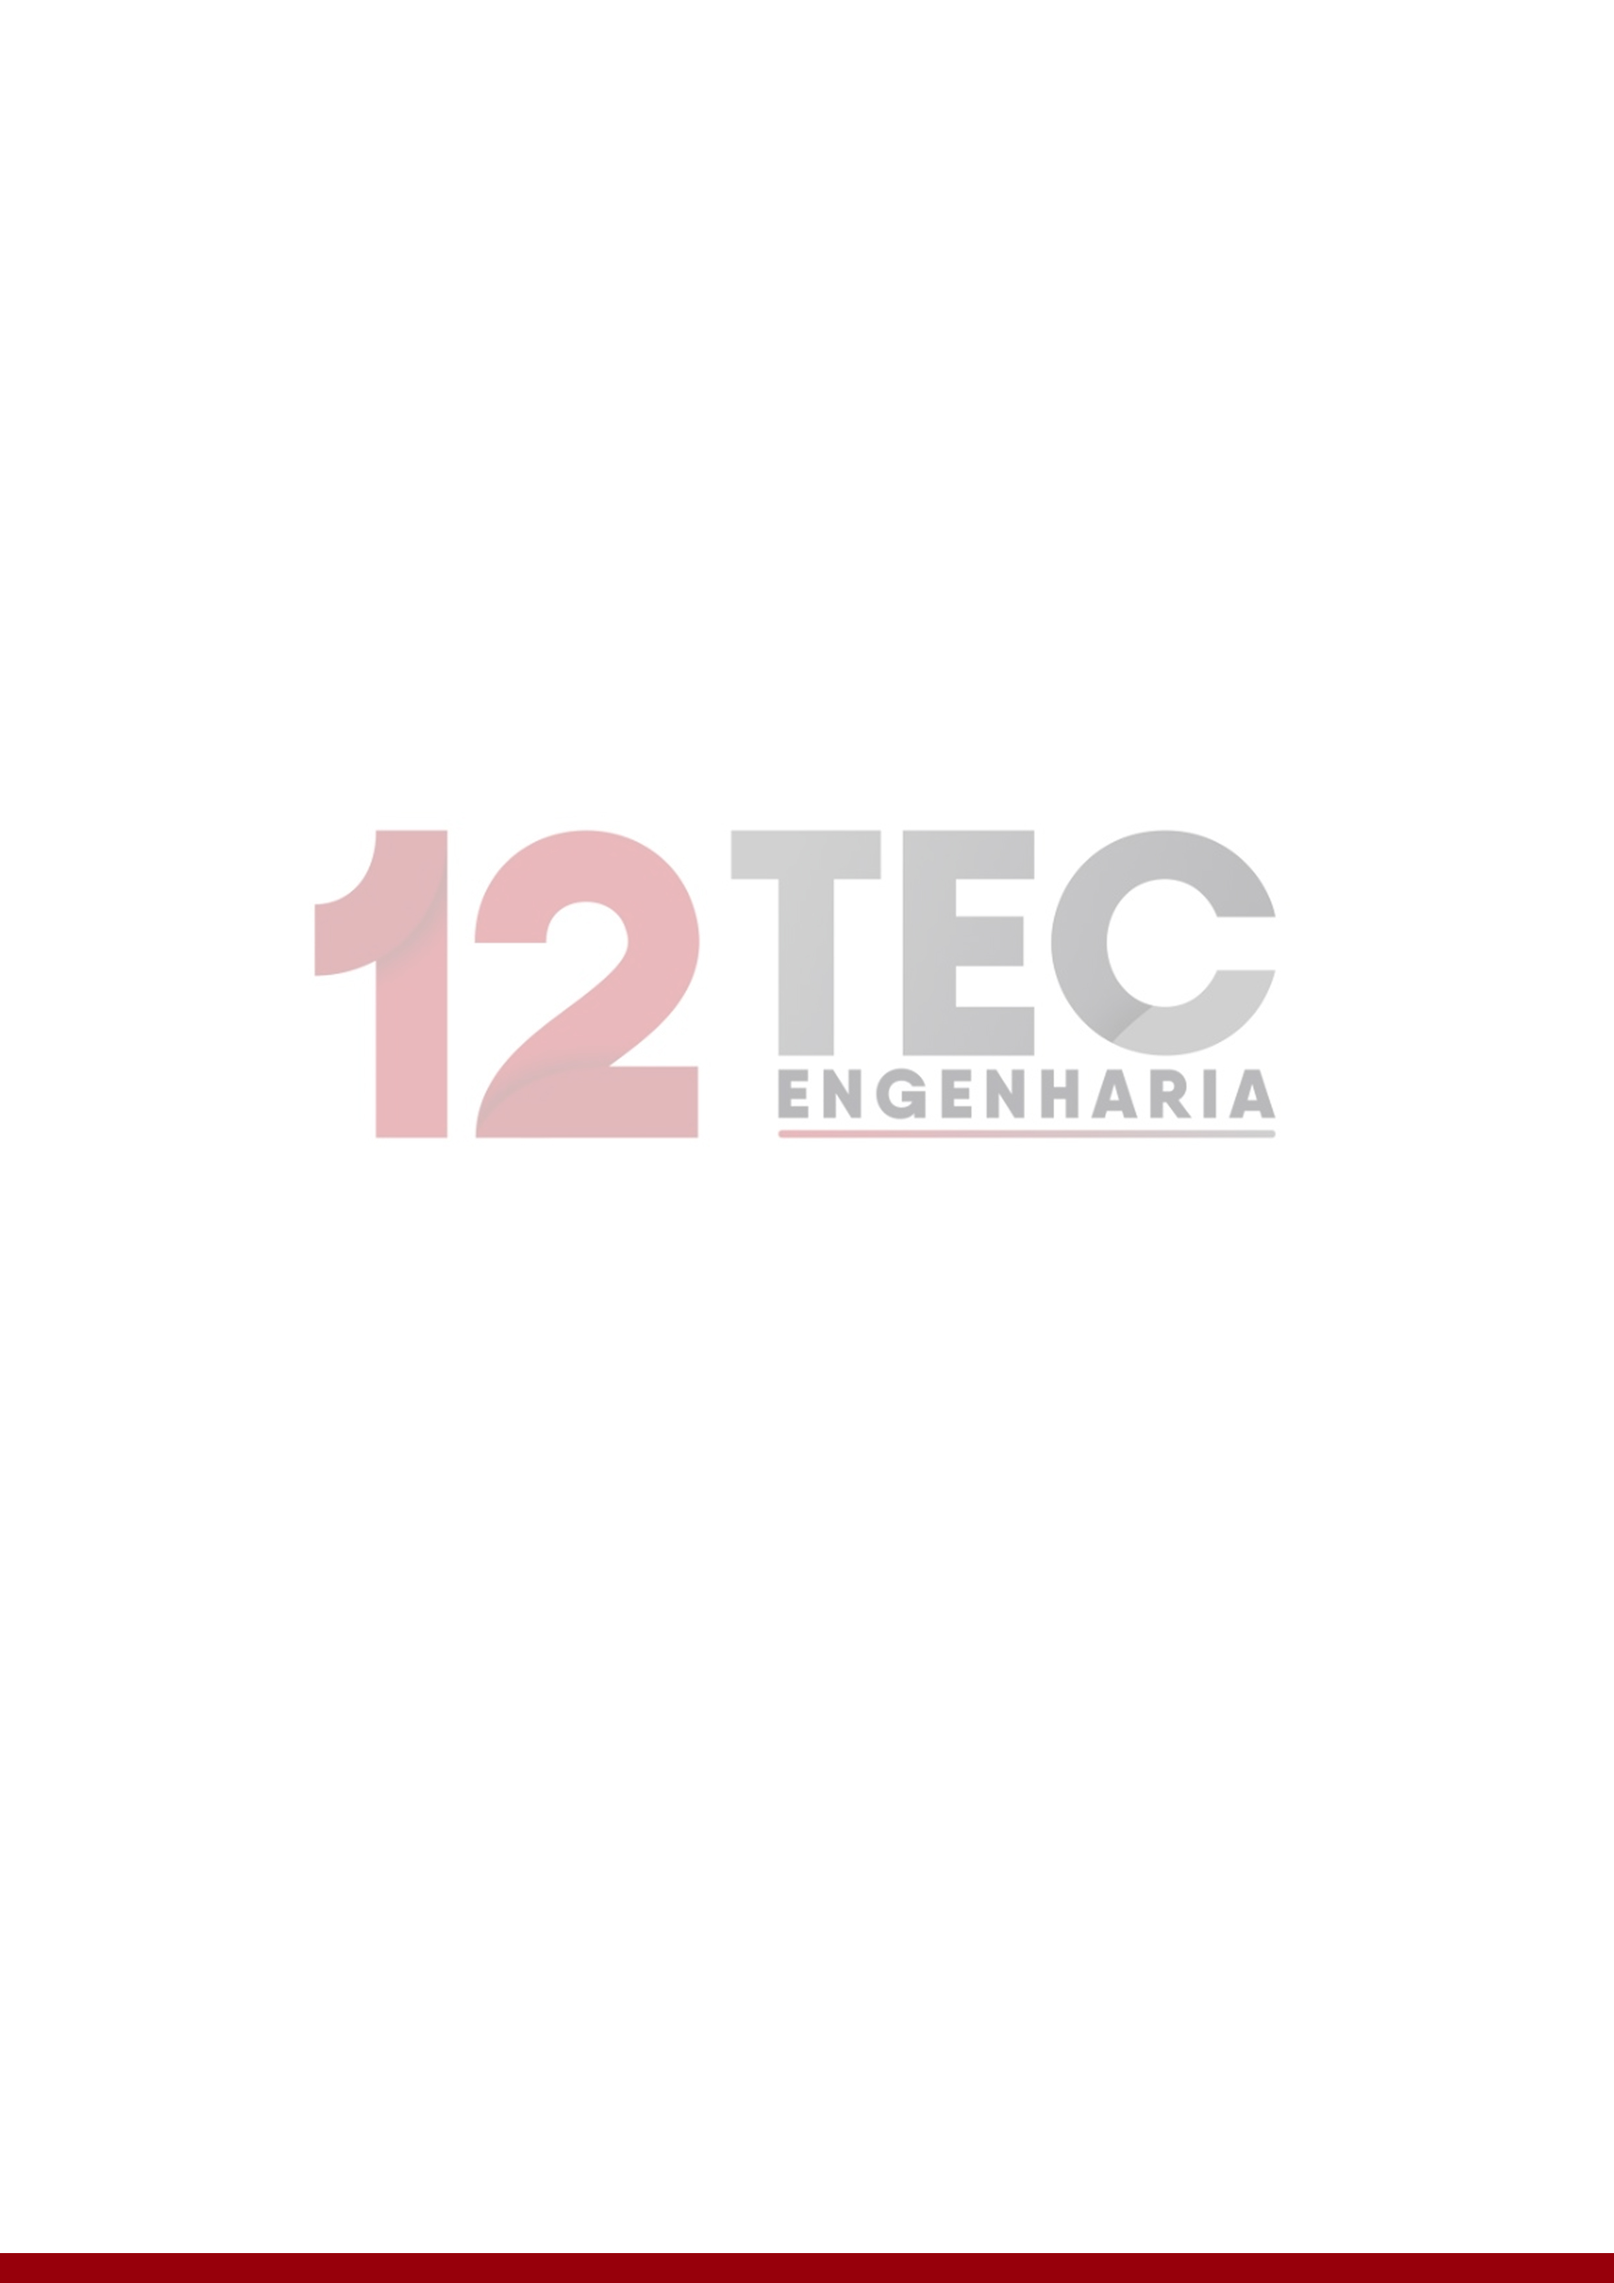
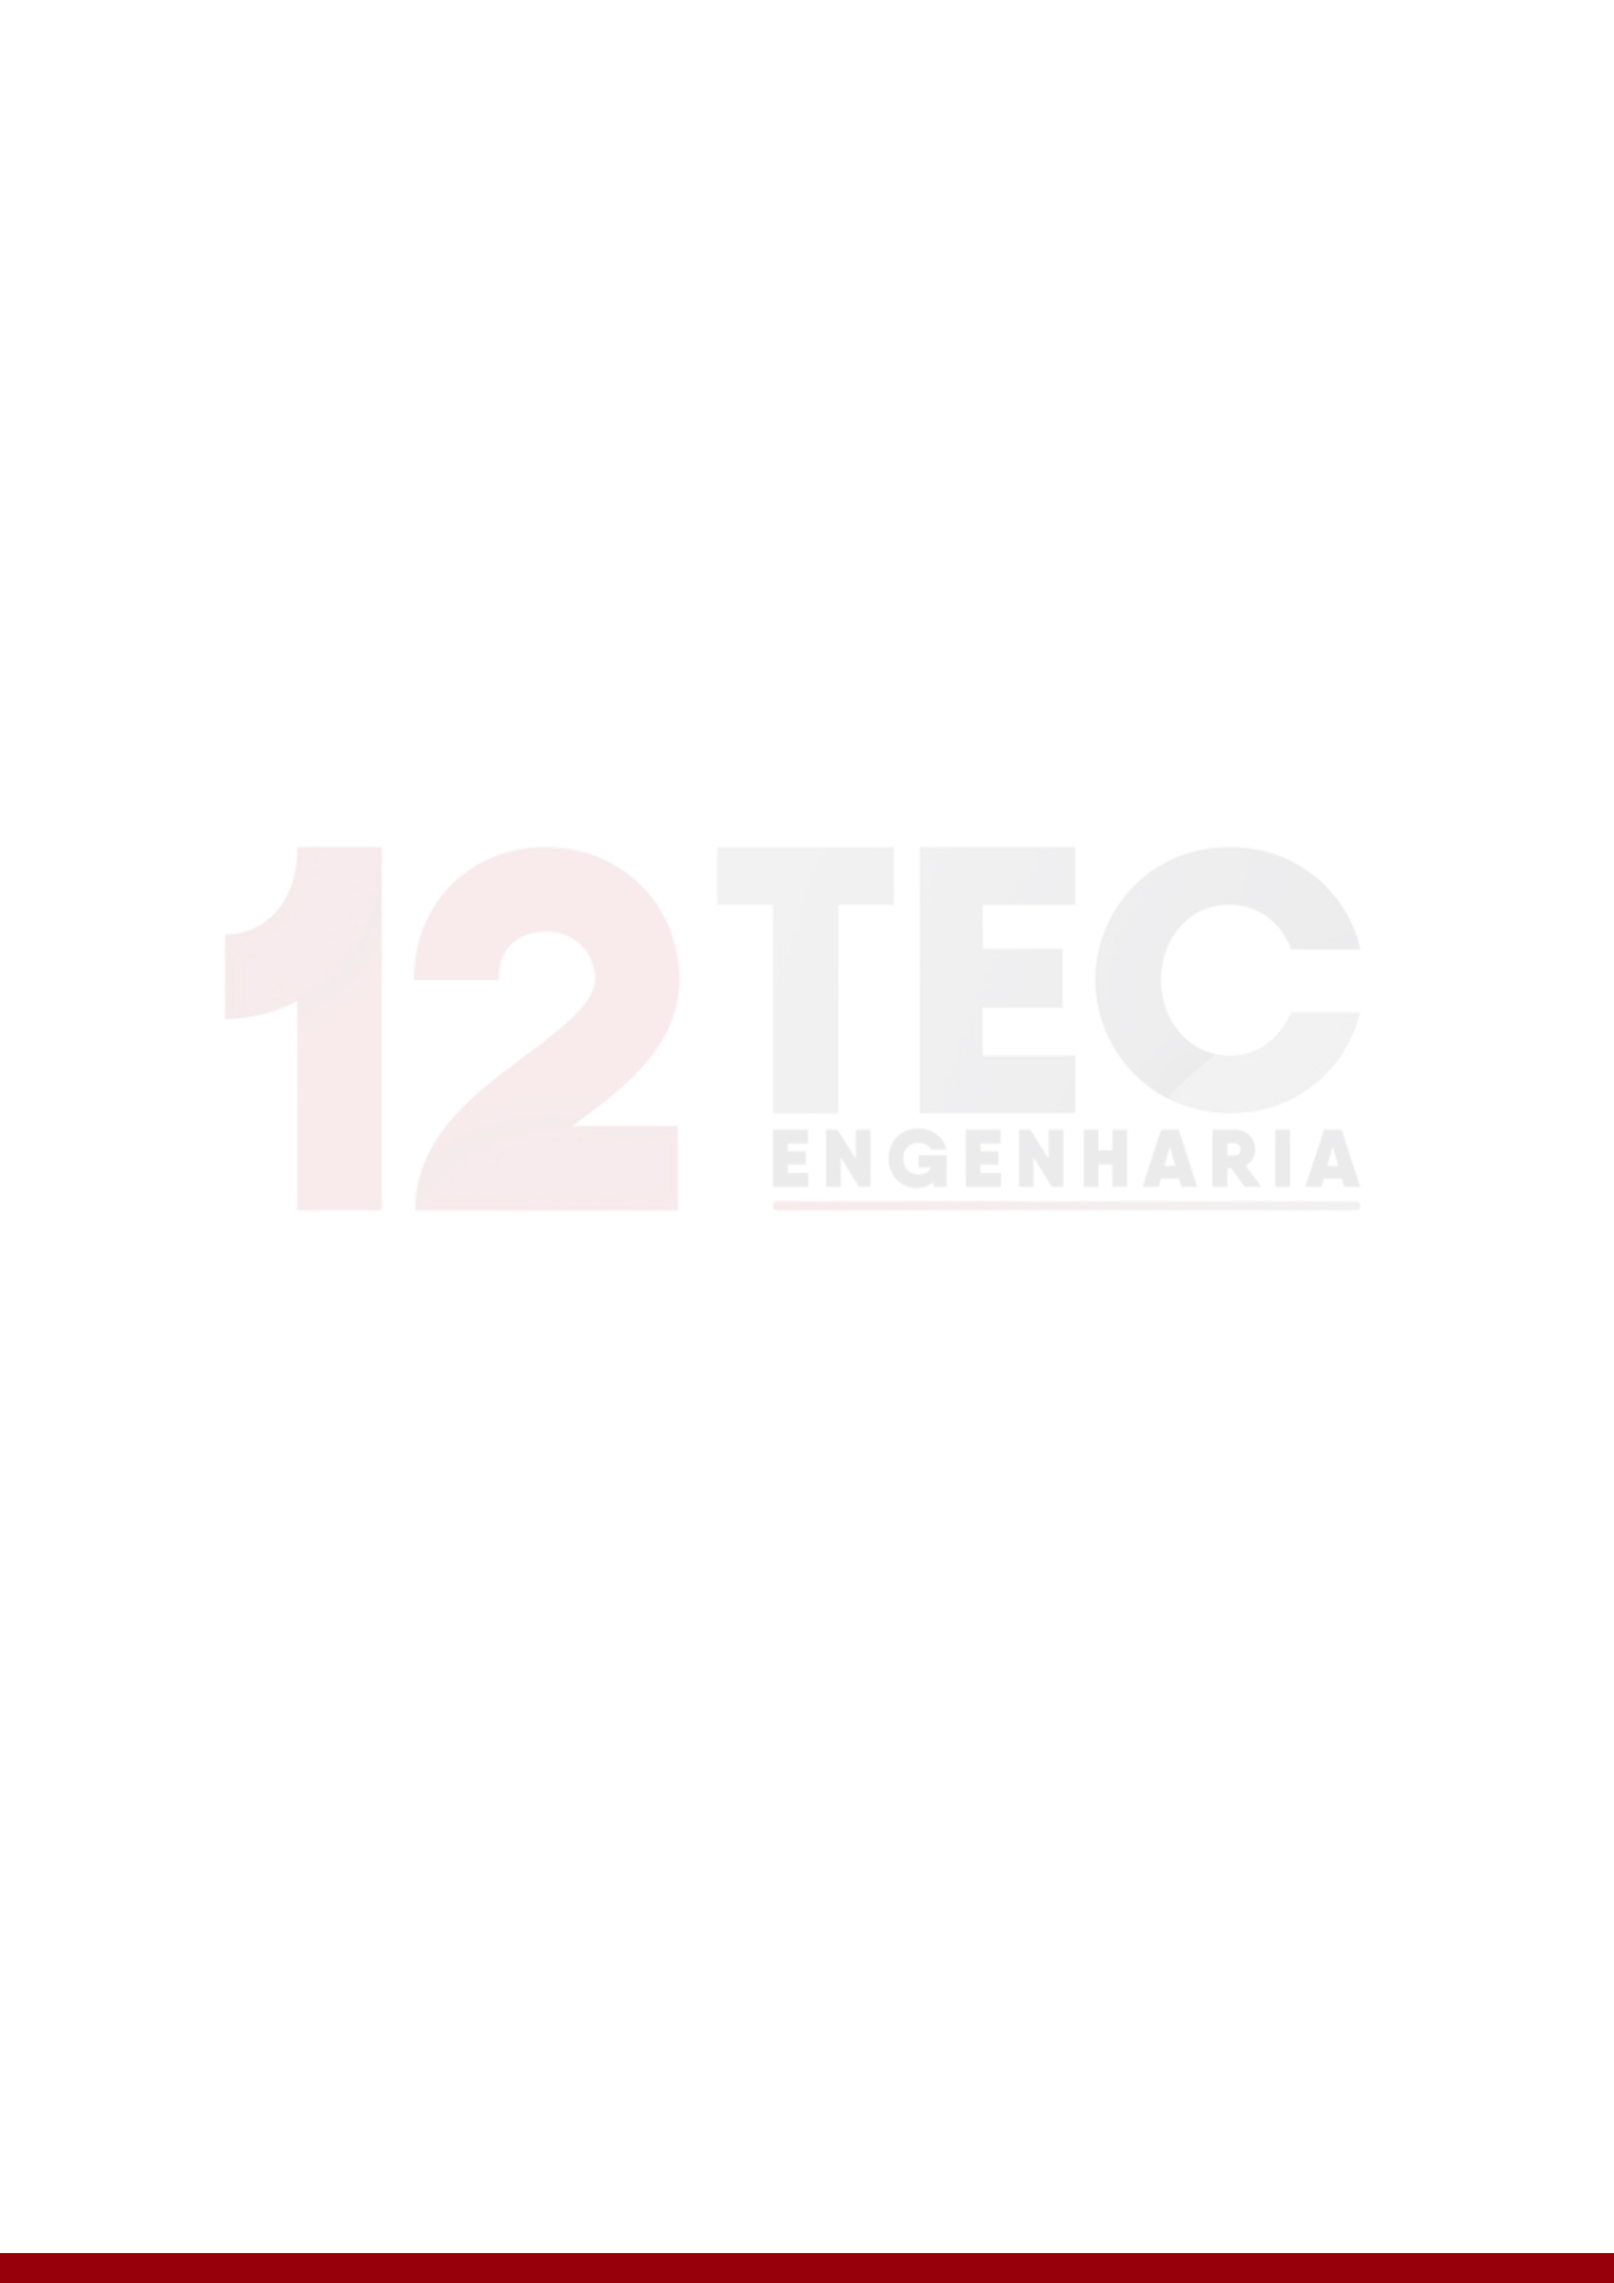
FDDFDF

Changed region(s): [[0.1863, 0.3418, 0.8073, 0.4971]]

diff --git a/public/modelos/CONTRATOSERVICO.html b/public/modelos/CONTRATOSERVICO.html
@@ -11,25 +11,23 @@
       font-family: 'Georgia', serif;
       color:#222;
       line-height:1.6;
-      padding:24px;
+      padding: 14px;
       position: relative;
     }
 
-    /* Marca d’água */
-    body::before {
-      content: "";
-      position: fixed;
-      top: 0;
-      left: 0;
-      width: 210mm;   /* largura A4 */
-      height: 297mm;  /* altura A4 */
-      background: url("https://intranet12tec.vercel.app/modelos/FolhadeRostoContrato.jpg") no-repeat center center;
-      background-size: contain;
-background-repeat: no-repeat;
-background-position: center top;
-      opacity: 0.8;
-      z-index: -1;
-    }
+body::before {
+  content: "";
+  position: fixed;
+  top: 0;
+  left: 0;
+  width: 100%;
+  height: 100%;
+  background: url("https://intranet12tec.vercel.app/modelos/FolhadeRostoContrato.jpg") no-repeat top center;
+  background-size: contain;
+  opacity: 1;
+  z-index: -1;
+}
+
 
     .page {
       max-width: var(--max-width);

diff --git a/app/api/gerar_contratos/route.ts b/app/api/gerar_contratos/route.ts
@@ -36,13 +36,21 @@ export async function POST(req: Request) {
     }
 
 
-    const contratadoLis = contrato.obrigacoes_contratado_lista
-  ? contrato.obrigacoes_contratado_lista.map((item: string) => `<li>${item}</li>`).join('')
+const contratadoLis = contrato.obrigacoes_contratado_lista
+  ? contrato.obrigacoes_contratado_lista
+      .filter((item: string) => item && item.trim() !== '') // define tipo explicitamente
+      .map((item: string) => `<li>${item}</li>`)
+      .join('')
   : '';
 
 const contratanteLis = contrato.obrigacoes_contratante_lista
-  ? contrato.obrigacoes_contratante_lista.map((item: string) => `<li>${item}</li>`).join('')
+  ? contrato.obrigacoes_contratante_lista
+      .filter((item: string) => item && item.trim() !== '')
+      .map((item: string) => `<li>${item}</li>`)
+      .join('')
   : '';
+
+
 
 
 
